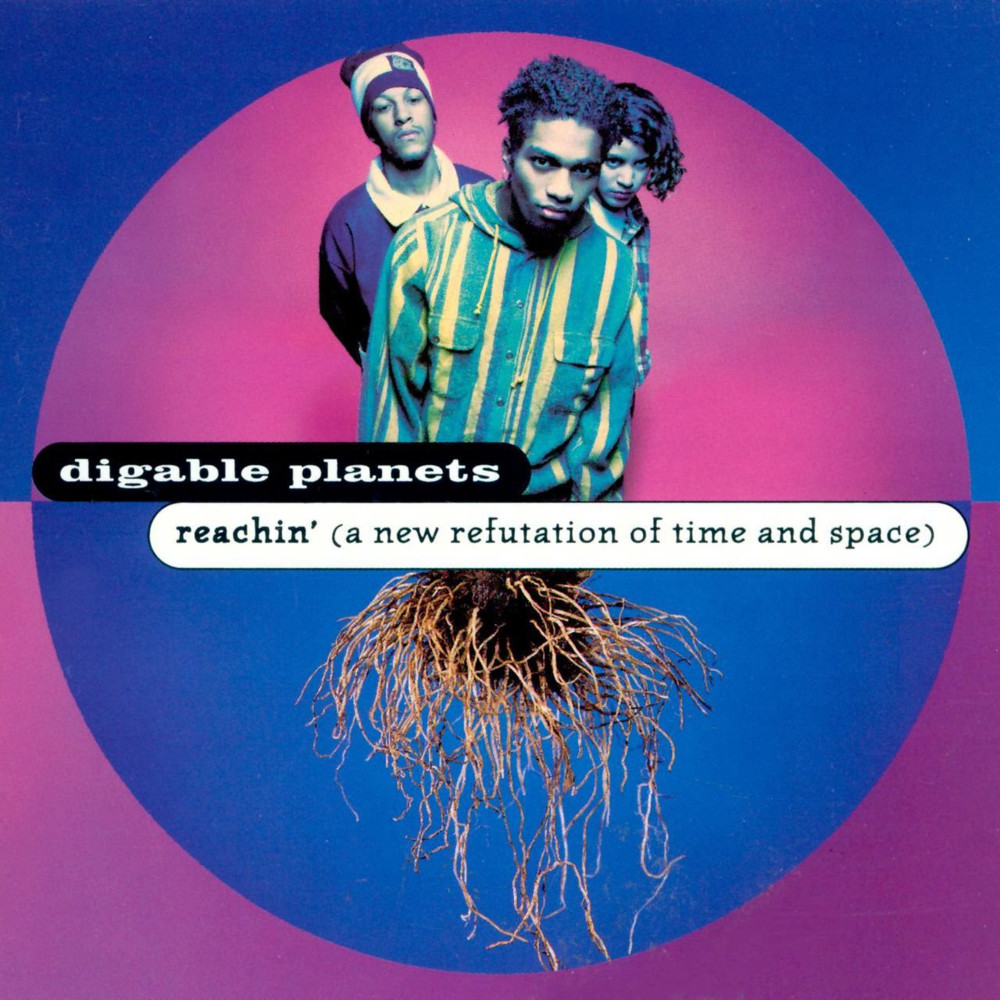
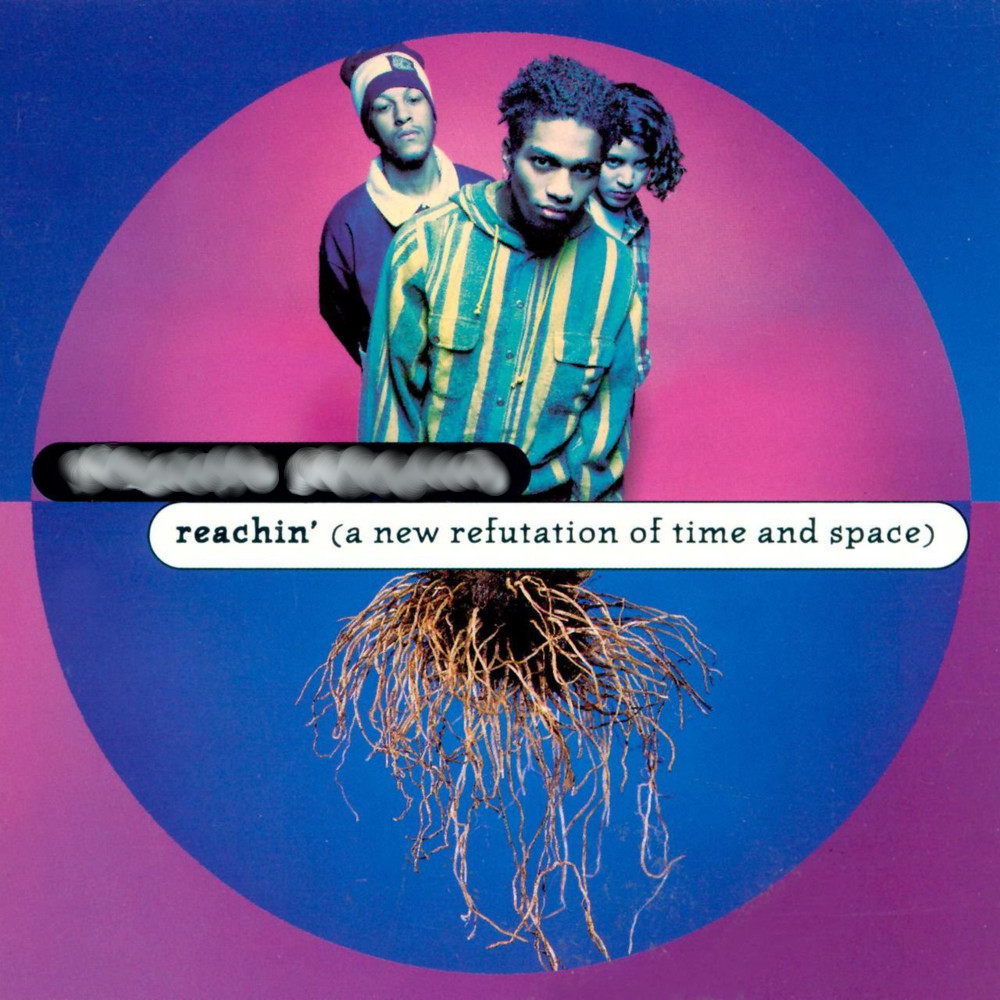
images blurred and code transitioned to using  object array containing name and pics of each artist

Changed region(s): [[0.062, 0.434, 0.527, 0.496]]

diff --git a/assets/javascript/code.js b/assets/javascript/code.js
@@ -1,20 +1,51 @@
 
 (function(){
-//bank of words that player will try to guess
-let wordBank = ["modest mouse", "duster", "american football", "sebadoh", "the flaming lips", "galaxie 500", "pavement", "built to spill",
-                "digible planets", "outkast", "wu tang clan", "aphex twin", "bjork", "boards of canada", "slowdive", "my bloody valentine",
-                "flake music", "guided by voices", "dj shadow", "pj harvey", "weezer", "radiohead", "yo la tengo", "nirvana", "stereolab",
-                "pinback", "at the drive in", "they might be giants", "disco inferno", "polvo", "slint", "capn jazz", "elliott smith",
-                "the american analog set", "red hot chili peppers"];
-let fileName = {"modest mouse":"this-is-a-long-drive.jpg", "duster": "stratosphere-cover.jpg", "american football":"american-football.jpg",
-                "sebadoh":"sebadoh-iii.jpg", "the flaming lips":"soft-bulletin.jpg", "galaxie 500":"on-fire.jpg", "pavement":"slanted-and-enchanted.jpg", 
-                "built to spill":"keep-it-like-a-secret.jpg", "digible planets":"reachin.jpg", "outkast":"atliens.jpeg", "wu tang clan":"enter-the-wu-tang.jpg", 
-                "aphex twin":"richard-d-james.jpg", "bjork":"post.jpg", "boards of canada":"twoism.jpg", "slowdive":"souvlaki.jpg", "my bloody valentine":"loveless.jpg",
-                "flake music":"when-you-land.jpg", "guided by voices":"bee-thousand.png", "dj shadow":"endtroducing.jpg", "pj harvey":"rid-of-me.jpg", "weezer":"blue-album.jpg",
-                "radiohead":"ok-computer.jpg", "yo la tengo":"i-can-hear.jpg", "nirvana":"in-utero.jpg", "stereolab":"dots-and-loops.jpg", "pinback":"pinback.jpg",
-                "at the drive in":"relationship-of-command.jpg", "they might be giants":"lincoln.jpg", "disco inferno":"disco-inferno.jpg", "polvo":"exploded-drawing.jpg",
-                "slint":"spiderland.jpg", "capn jazz":"capn-jazz.jpg", "elliott smith":"either-or.jpg", "the american analog set":"know-by-heart.jpg", "red hot chili peppers":"blood-sugar-sex-magic.jpg"};
-                //associate list of letters and ASCII numbers
+
+                
+
+
+let artist = [
+    {name:"modest mouse", pic:"this-is-a-long-drive.jpg"},
+    {name:"duster", pic:"stratosphere-cover.jpg"},
+    {name:"american football", pic:"american-football.jpg"},
+    {name:"sebadoh", pic:"sebadoh-iii.jpg"},
+    {name:"the flaming lips", pic:"soft-bulletin.jpg"},
+    {name:"galaxie 500", pic:"on-fire.jpg"},
+    {name:"pavement", pic:"slanted-and-enchanted.jpg"}, 
+    {name:"built to spill", pic:"keep-it-like-a-secret.jpg"},
+    {name:"digible planets", pic:"reachin.jpg"},
+    {name:"outkast", pic:"atliens.jpeg"},
+    {name:"wu tang clan", pic:"enter-the-wu-tang.jpg"}, 
+    {name:"aphex twin", pic:"richard-d-james.jpg"},
+    {name:"bjork", pic:"post.jpg"},
+    {name:"boards of canada", pic:"twoism.jpg"},
+    {name:"slowdive", pic:"souvlaki.jpg"},
+    {name:"my bloody valentine", pic:"loveless.jpg"},
+    {name:"flake music", pic:"when-you-land.jpg"},
+    {name:"guided by voices", pic:"bee-thousand.png"},
+    {name:"dj shadow", pic:"endtroducing.jpg"},
+    {name:"pj harvey", pic:"rid-of-me.jpg"},
+    {name:"weezer", pic:"blue-album.jpg"},
+    {name:"radiohead", pic:"ok-computer.jpg"},
+    {name:"yo la tengo", pic:"i-can-hear.jpg"},
+    {name:"nirvana", pic:"in-utero.jpg"},
+    {name:"stereolab", pic:"dots-and-loops.jpg"},
+    {name:"pinback", pic:"pinback.jpg"},
+    {name:"at the drive in", pic:"relationship-of-command.jpg"},
+    {name:"they might be giants", pic:"lincoln.jpg"},
+    {name:"disco inferno", pic:"disco-inferno.jpg"},
+    {name:"polvo", pic:"exploded-drawing.jpg"},
+    {name:"slint", pic:"spiderland.jpg"},
+    {name:"capn jazz", pic:"capn-jazz.jpg"},
+    {name:"elliott smith", pic:"either-or.jpg"},
+    {name:"the american analog set", pic:"know-by-heart.jpg"},
+    {name:"red hot chili peppers", pic:"blood-sugar-sex-magic.jpg"},
+    {name:"cocteau twins", pic:"heaven-or-las-vegas.png"}
+];
+
+
+//associate list of letters and ASCII numbers
+//use event.key to avoid havving to use ASCII code
 let letters = { 0:48, 1:49, 2:50, 3:51, 4:52, 5:53, 6:54, 7:55, 8:56, 9:57, a:65, b:66, c:67, d:68, e:69, f:70, g:71, h:72,
                 i:73, j:74, k:75, l:76, m:77, n:78, o:79, p:80, q:81, r:82, s:83, t:84, u:85, v:86, w:87, x:88, y:89, z:90}
 //used to check if the initial screen has been set up 
@@ -26,16 +57,16 @@ let gWord = "";
 //will store each guess the user makes
 let guess = "";
 let output = "";
-let guessRemaining = 7, wins = 0;
+let guessRemaining = 8, wins = 0;
 let usedWords = "";
 let lettersInWord = "";
 
 document.addEventListener("keyup", function(event){
 
     if(!setup){
-        if(wordBank.length === 0){killScreen();}
+        if(artist.length === 0){killScreen();}
         //randomly pick guess Word
-        gWord = chooseWord();;
+        gWord = chooseWord();
         console.log(gWord);
         //create appropriate number of spaces on screen
         lettersInWord = genLetters(gWord);
@@ -65,7 +96,7 @@ const makeGuess = (gWord, guess, output) => {
     usedWords += guess;
     if(!(gWord.includes(guess))){
         guessRemaining--;
-        document.querySelector(".instructions").innerHTML = "The word does not contain: " + guess;
+        document.querySelector(".instructions").innerHTML = "The band name does not contain: " + guess;
         outputUsedWords(usedWords);
         document.querySelector(".wins-guesses").innerHTML = "Wins: " + wins + ", Guesses Remaining: " + guessRemaining;
         return;
@@ -89,18 +120,26 @@ const set = (gWord) => {
         if(gWord.charAt(i) === " "){underscores += "-- ";}
         else{underscores += "_ ";}
     }
-    for(key in fileName){
-        console.log("key: " + key);
-        console.log("gWord: " + gWord);
-        console.log("source: " + fileName[key]);
-        if(key === gWord){source += fileName[key];}
+    let found = false;
+    let j = 0;
+    while(!found){
+        if(artist[j].name === gWord){
+            source += artist[j].pic;
+            found = true;
+        }
+        else{j++;}
     }
+    
     document.querySelector(".album").innerHTML = "<img class = \"album-art\" src = \"" + source + "\" >";
     document.querySelector(".wins-guesses").innerHTML = "Wins: " + wins + ", Guesses Remaining: " + guessRemaining;
     document.querySelector(".used-words").innerHTML = "";  
     document.querySelector(".instructions").innerHTML = "";   
 
-    setup = true;  
+    setup = true; 
+
+    //after the guess word has been selected, and the album cover has been printed to the screen,
+    //the object containing the name and pic can be removed so it is not selected again
+    artist.splice(artist.indexOf(gWord), 1);
 
     underscores = underscores.split(" ");
     drawWord(underscores); 
@@ -138,13 +177,13 @@ const endGame = () => {
     if(correct){
         wins += 1;
         document.querySelector(".wins-guesses").innerHTML = "Wins: " + wins + ", Guesses Remaining: " + guessRemaining;
-        document.querySelector(".instructions").innerHTML = "You Win! Press any key to play another game.";  
+        document.querySelector(".instructions").innerHTML = "Correct! Press any key to keep playing.";  
     }
     else{
-        document.querySelector(".instructions").innerHTML = "Bummer, you lost :( ... Press any key to play another game.";  
+        document.querySelector(".instructions").innerHTML = "Bummer, you lost :( ... Press any key to keep playing.";  
     }
     setup = false;
-    guessRemaining = 7;
+    guessRemaining = 8;
     correct = false;
     gWord = "";
     guess = "";
@@ -173,15 +212,14 @@ const drawWord = (outP) => {
 }
 
 const chooseWord = () => {
-    let word = wordBank[Math.floor(Math.random() * wordBank.length)];
-    wordBank.splice(wordBank.indexOf(word), 1);
-    return word;
+    let word = artist[Math.floor(Math.random() * artist.length)];
+    return word.name;
 }
 
 const killScreen = () => {
-    document.querySelector(".wins-guesses").innerHTML = ""; 
+    document.querySelector(".wins-guesses").innerHTML = "Wins: " + wins; 
     document.querySelector(".unknown-word").innerHTML = "Wowee"; 
-    document.querySelector(".instructions").innerHTML = "There are no more words to guess!";   
+    document.querySelector(".instructions").innerHTML = "There are no more bands to guess!";   
     document.querySelector(".used-words").innerHTML = "You win!"; 
 
 }

diff --git a/assets/css/index.css b/assets/css/index.css
@@ -1,6 +1,7 @@
 .game-box{
     margin: 20px;
-    width: 470px;
+    width: 800px;
+    min-height: 680px;
     margin-left: auto;
     margin-right: auto;
     text-align: center;
@@ -10,4 +11,13 @@
     width: 432px;
     height: 432px;
     margin: 20px;
+    border-width: 4px !important;
+    border-color: black !important;
+    border-radius: 30px !important;
+}
+
+.border{
+    border-width: 2px !important;
+    border-color: black !important;
+    border-radius: 30px !important;
 }
